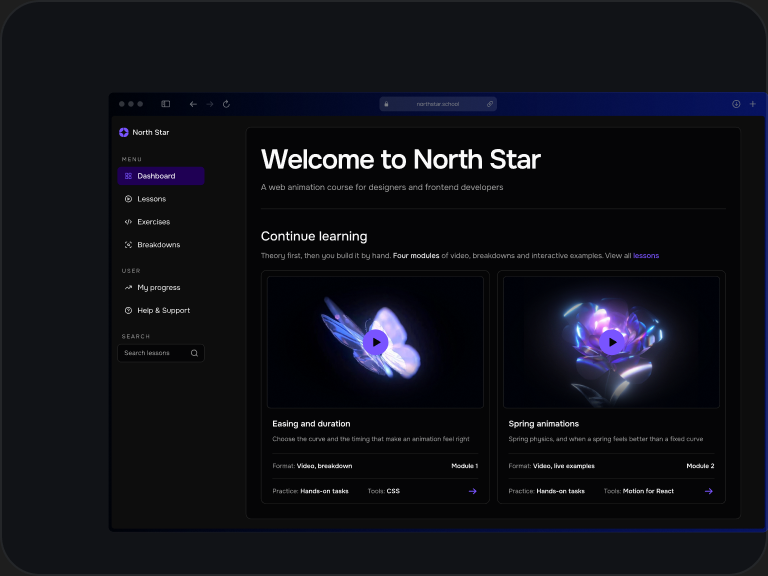
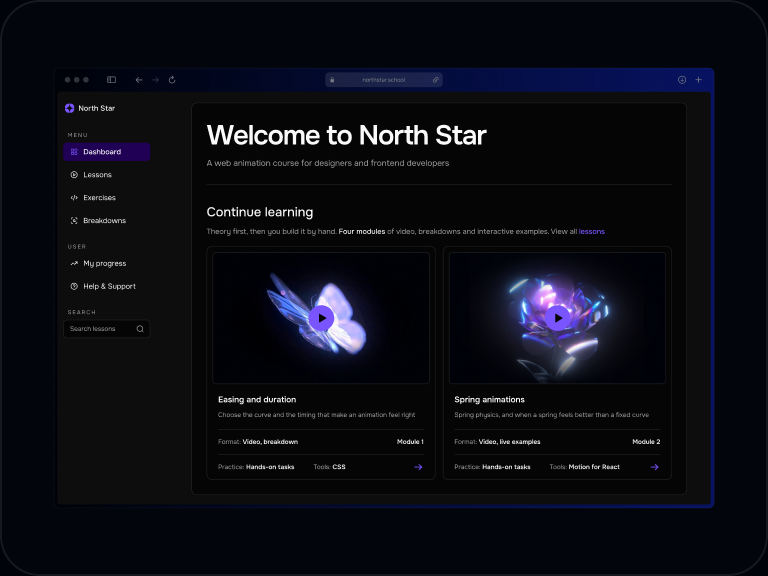
More work: мокапы в обложках по центру, заливка плашек 50% как в макете

diff --git a/lookmerce.html b/lookmerce.html
@@ -26,7 +26,7 @@
     /* цвет */
     --surface-page: #000309;
     --surface-raised: #0e1f42;
-    --surface-card: #050910;     /* Surface/card = Neutral/925, заливка плашек */
+    --surface-card: rgb(5 9 16 / 0.5);   /* Surface/card = #050910 50%, как в макете, заливка плашек */
     --surface-overlay: rgb(0 77 255 / 0.05);   /* #004DFF 5%, в макете с 24.09.2026 (было #F5F8FF 5%) */
     --surface-inverse: #f5f8ff;
     --text-primary: #f5f8ff;
@@ -1544,17 +1544,17 @@
     </div>
     <div class="case-more__grid">
 <a class="work-card" href="https://www.behance.net/dianashvedskaya" target="_blank" rel="noopener">
-<img class="work-card__cover" src="assets/cover-northstar.png" alt="North Star student dashboard in a browser window" width="768" height="576" loading="lazy">
+<img class="work-card__cover" src="assets/cover-northstar.png?v=20260929" alt="North Star student dashboard in a browser window" width="768" height="576" loading="lazy">
 <div class="work-card__text"><h3>North Star</h3><p>Web animation course platform</p></div>
 <ul class="chips"><li class="chip">PLATFORM UI</li><li class="chip">LEARNING UX</li></ul>
 </a>
 <a class="work-card" href="https://www.behance.net/gallery/239613305/SaaS-Platform-Landing-Page" target="_blank" rel="noopener">
-<img class="work-card__cover" src="assets/cover-astralis.png" alt="Astralis Mini App screens on two iPhones" width="768" height="576" loading="lazy">
+<img class="work-card__cover" src="assets/cover-astralis.png?v=20260929" alt="Astralis Mini App screens on two iPhones" width="768" height="576" loading="lazy">
 <div class="work-card__text"><h3>Astralis</h3><p>Private SEO platform</p></div>
 <ul class="chips"><li class="chip">DASHBOARD UI</li><li class="chip">MINI APP</li></ul>
 </a>
 <a class="work-card" href="https://www.behance.net/dianashvedskaya" target="_blank" rel="noopener">
-<img class="work-card__cover" src="assets/cover-blokb.png" alt="Blok B Mini App screens on two iPhones" width="768" height="576" loading="lazy">
+<img class="work-card__cover" src="assets/cover-blokb.png?v=20260929" alt="Blok B Mini App screens on two iPhones" width="768" height="576" loading="lazy">
 <div class="work-card__text"><h3>Blok B</h3><p>IT&nbsp;Studio Website</p></div>
 <ul class="chips"><li class="chip">LANDING PAGE</li><li class="chip">UX WRITING</li></ul>
 </a>

diff --git a/index.html b/index.html
@@ -26,7 +26,7 @@
     /* цвет */
     --surface-page: #000309;
     --surface-raised: #0e1f42;
-    --surface-card: #050910;     /* Surface/card = Neutral/925, заливка плашек */
+    --surface-card: rgb(5 9 16 / 0.5);   /* Surface/card = #050910 50%, как в макете, заливка плашек */
     --surface-overlay: rgb(0 77 255 / 0.05);   /* #004DFF 5%, в макете с 24.09.2026 (было #F5F8FF 5%) */
     --surface-inverse: #f5f8ff;
     --text-primary: #f5f8ff;
